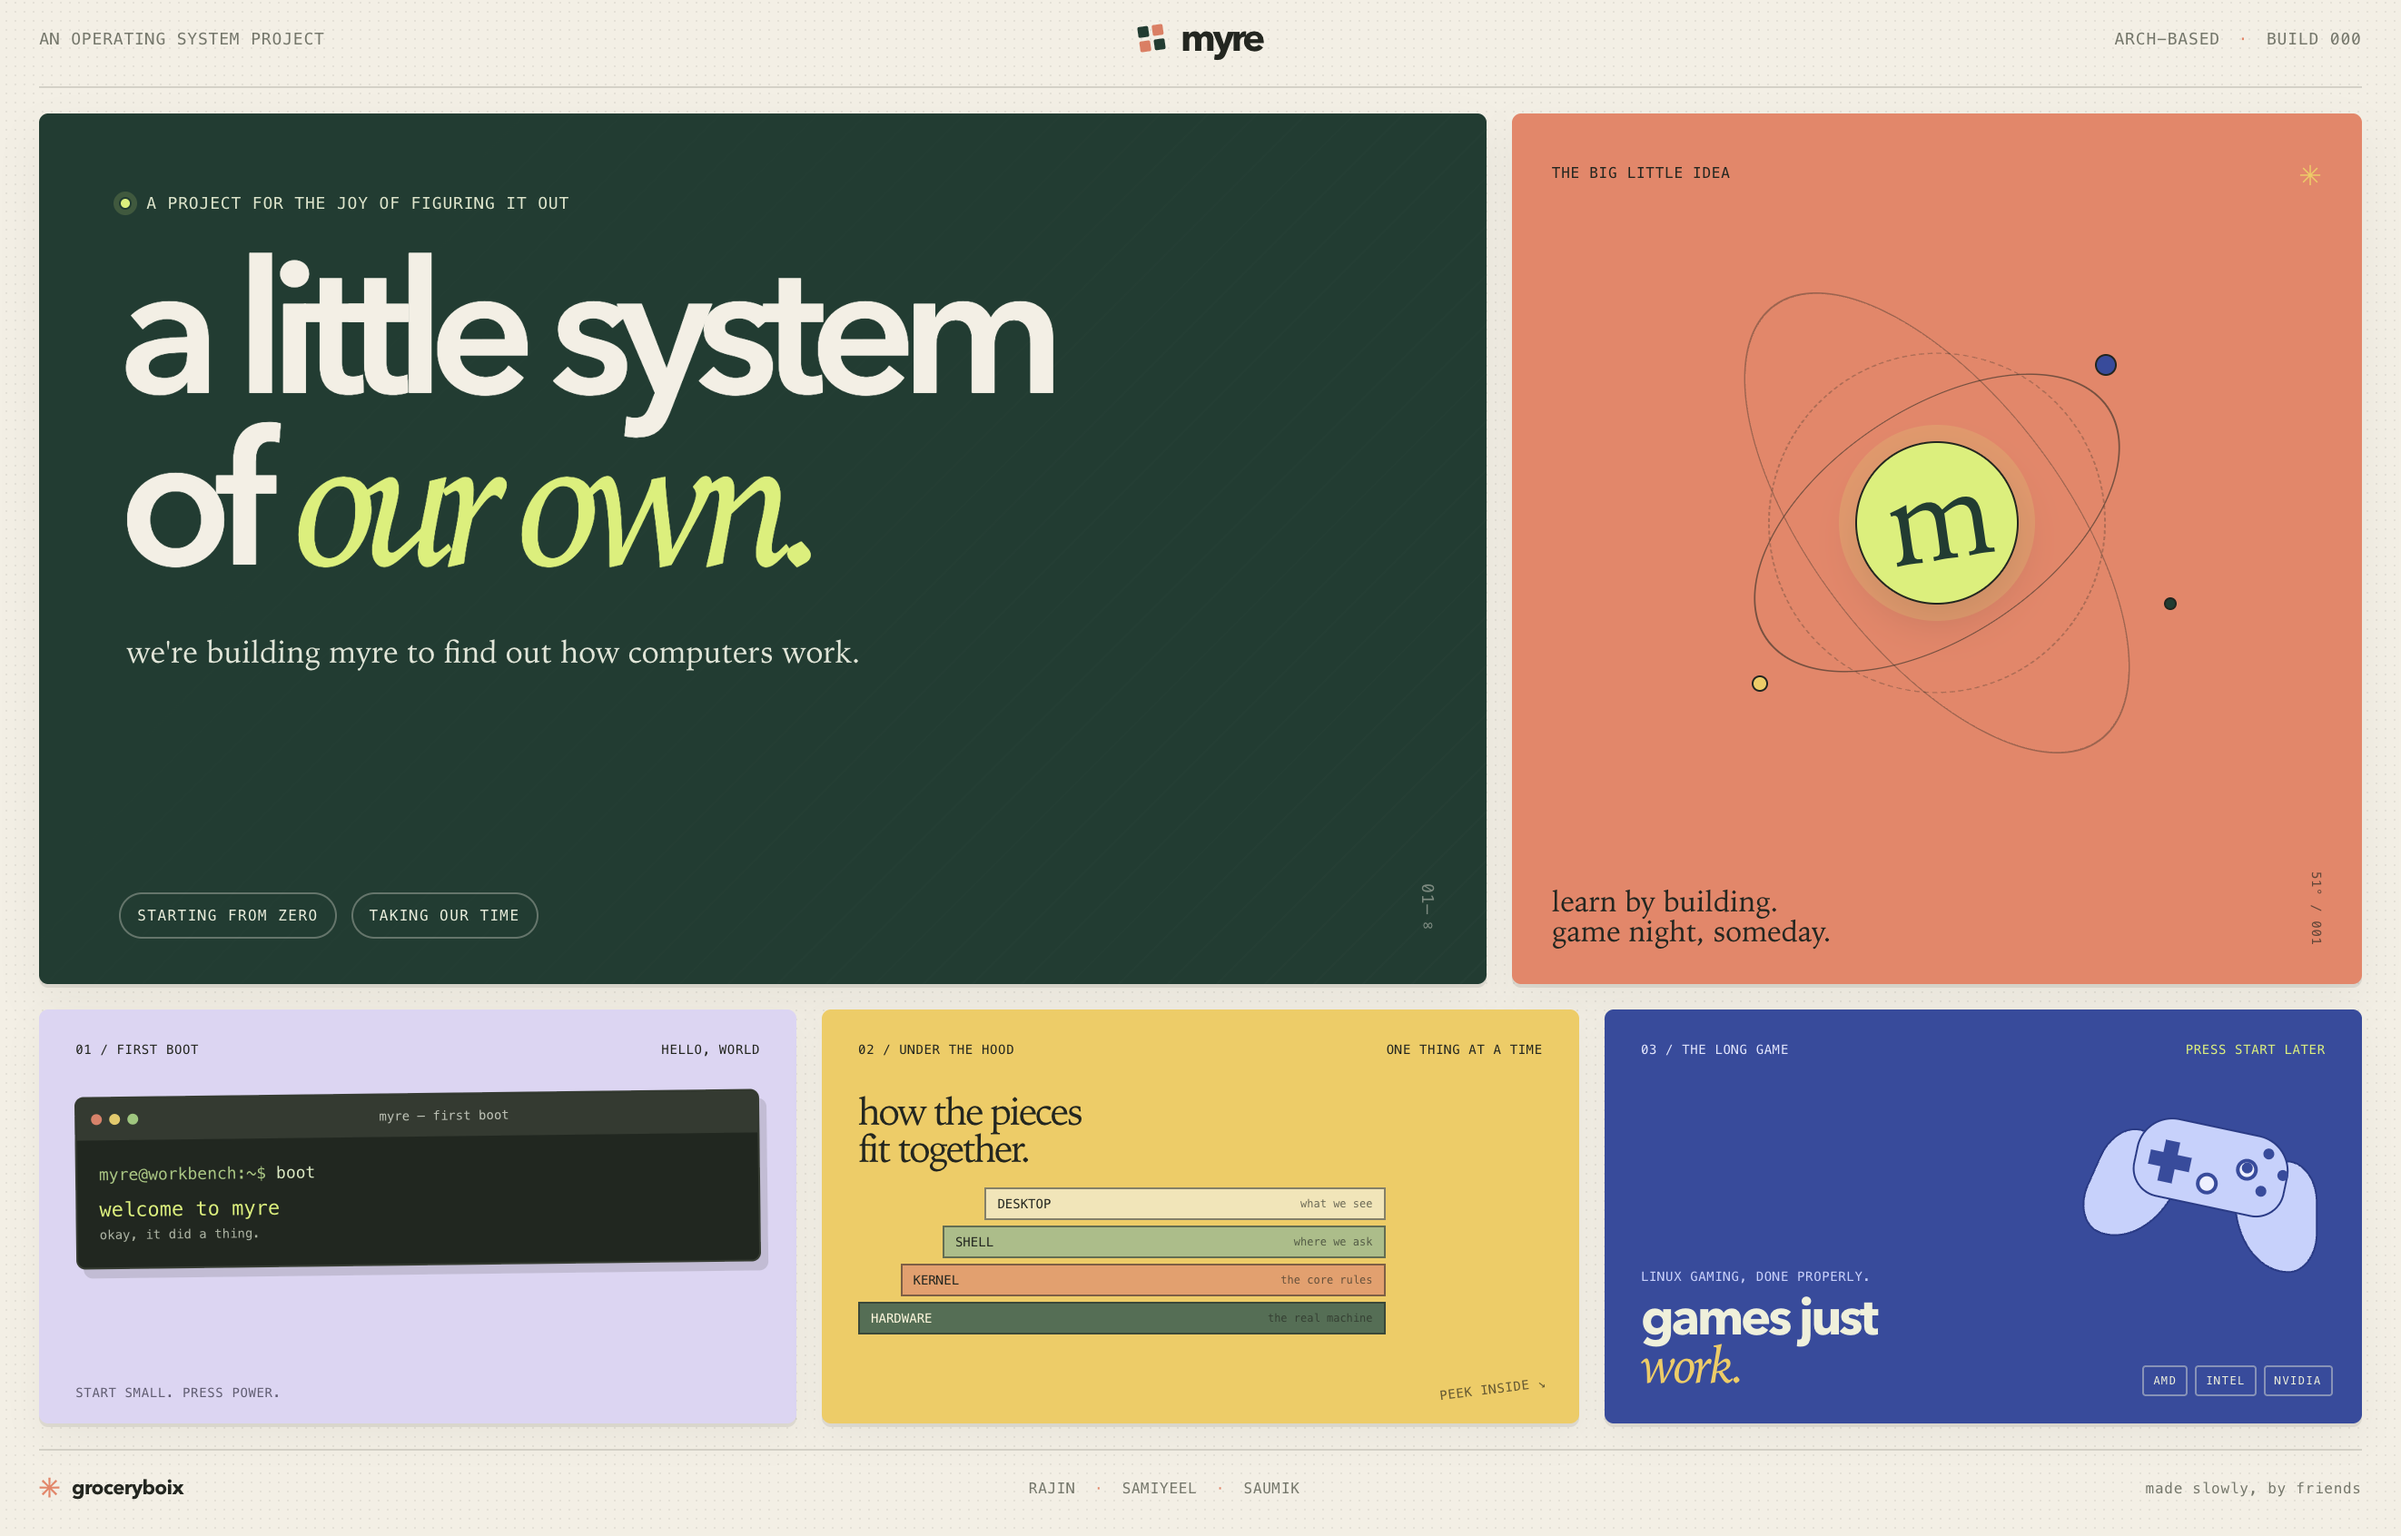
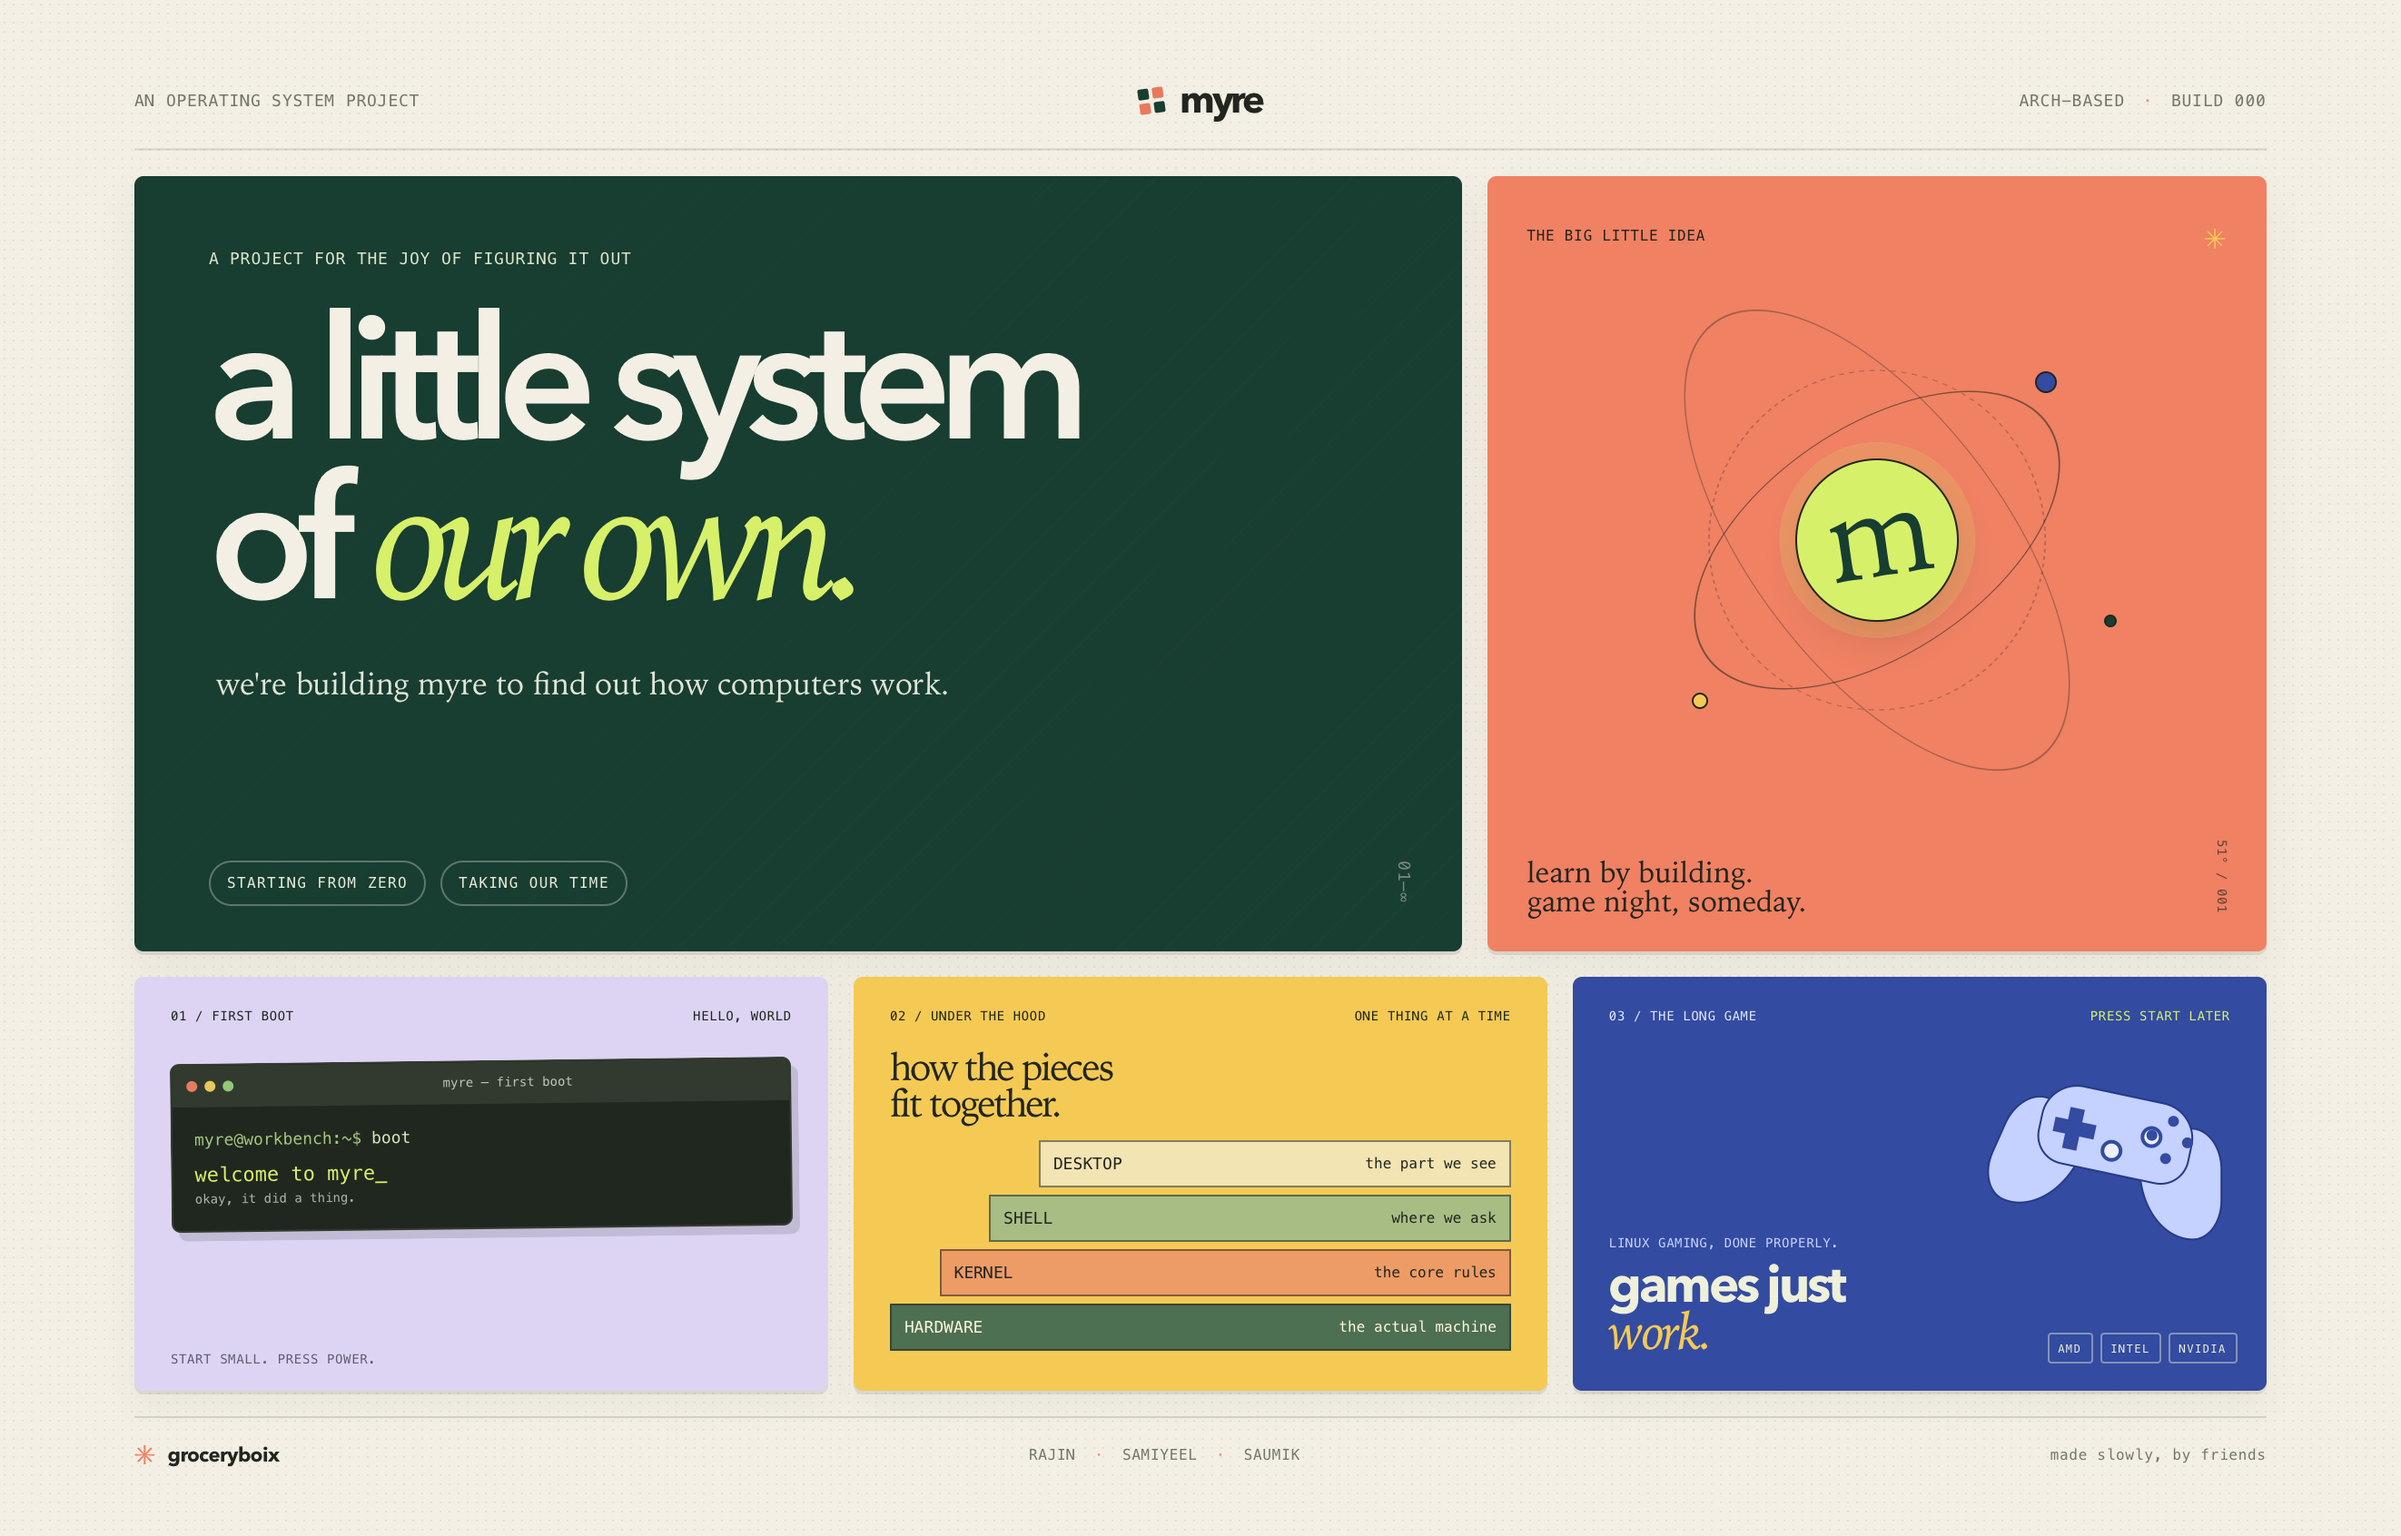
Refine learning layer cards and page titles

diff --git a/site/styles.css b/site/styles.css
@@ -128,15 +128,15 @@ h1, h2, p { margin-top: 0; }
 .card-caption { margin: 17px 0 0; color: #565268; font-size: 8px; }
 
 .layers { grid-column: span 4; min-height: 249px; background: var(--yellow); }
-.layers h2 { margin: 20px 0 12px; font: 500 26px/.98 var(--serif); letter-spacing: -.055em; }
+.layers h2 { margin: 12px 0; font: 500 26px/.98 var(--serif); letter-spacing: -.055em; }
 .layer-arrow { font: 20px var(--mono); transform: rotate(-35deg); }
-.layer-stack { display: grid; gap: 3px; width: 77%; }
-.layer { display: flex; align-items: center; justify-content: space-between; min-height: 21px; padding: 4px 7px; border: 1px solid rgb(34 38 31 / 55%); font: 8px var(--mono); text-transform: uppercase; }
-.layer i { color: rgb(34 38 31 / 62%); font-size: 7px; font-style: normal; text-transform: none; }
+.layer-stack { display: grid; gap: 4px; width: 100%; margin: 0; padding: 0; list-style: none; }
+.layer { display: flex; align-items: center; justify-content: space-between; gap: 8px; min-height: 26px; padding: 4px 9px; border: 1px solid rgb(34 38 31 / 55%); font: 10px/1.2 var(--mono); text-transform: uppercase; }
+.layer span { font-size: 9px; text-align: right; text-transform: none; }
 .layer-desktop { width: 76%; margin-left: 24%; background: #f3e4b3; }
 .layer-shell { width: 84%; margin-left: 16%; background: #a8bd84; }
 .layer-kernel { width: 92%; margin-left: 8%; background: #ed9c66; }
-.layer-hardware { background: #4d6f52; color: #fff7da; }
+.layer-hardware { color: #fff7da; background: #4d6f52; }
 .page-card-link { display: block; color: inherit; text-decoration: none; }
 .page-card-link:focus-visible { outline: 2px solid var(--green); outline-offset: 4px; }
 .roadmap-cue { display: inline-flex; align-items: center; gap: 10px; }
@@ -311,7 +311,6 @@ h1, h2, p { margin-top: 0; }
   .layers { min-height: 254px; }
   .learning-columns { grid-template-columns: 1fr; gap: 20px; }
   .video-fields { grid-template-columns: minmax(0, 1fr) minmax(0, .72fr); }
-  .layer-stack { width: 77%; }
   .game-night { min-height: 264px; }
   .controller-art { right: 8%; top: 72px; transform: rotate(11deg) scale(1.05); transform-origin: top right; }
   .game-night h2 { font-size: 35px; }

diff --git a/site/banner.css b/site/banner.css
@@ -47,7 +47,7 @@ body {
   border-bottom: 1px solid var(--line);
 }
 
-.mast-note, .eyebrow, .hero-tags, .hero-index, .card-meta, .tile-head, .tile-caption, .layer-scribble, .play-kicker, .gpu-tags, .credits, .orbit-coordinate {
+.mast-note, .eyebrow, .hero-tags, .hero-index, .card-meta, .tile-head, .tile-caption, .play-kicker, .gpu-tags, .credits, .orbit-coordinate {
   font-family: var(--mono);
   text-transform: uppercase;
   letter-spacing: .045em;
@@ -110,15 +110,14 @@ h1 em { color: var(--lime); font-family: var(--serif); font-weight: 500; }
 .tile-caption { position: absolute; left: 20px; bottom: 13px; margin: 0; color: #615d73; font-size: 7px; }
 
 .layers-tile { background: var(--yellow); }
-.layers-tile h2 { margin: 20px 0 11px; font: 500 21px/.98 var(--serif); letter-spacing: -.055em; }
-.layers { display: grid; gap: 3px; width: 77%; }
-.layer { min-height: 18px; display: flex; align-items: center; justify-content: space-between; padding: 3px 6px; border: 1px solid rgb(34 38 31 / 53%); font: 7px var(--mono); text-transform: uppercase; }
-.layer i { color: rgb(34 38 31 / 64%); font-size: 6px; font-style: normal; text-transform: none; }
+.layers-tile h2 { margin: 14px 0 10px; font: 500 21px/.98 var(--serif); letter-spacing: -.055em; }
+.layer-stack { display: grid; gap: 4px; width: 100%; margin: 0; padding: 0; list-style: none; }
+.layer { display: flex; align-items: center; justify-content: space-between; gap: 7px; min-height: 26px; padding: 4px 7px; border: 1px solid rgb(34 38 31 / 55%); font: 9px/1.2 var(--mono); text-transform: uppercase; }
+.layer span { font-size: 8px; text-align: right; text-transform: none; }
 .layer-desktop { width: 76%; margin-left: 24%; background: #f3e4b3; }
 .layer-shell { width: 84%; margin-left: 16%; background: #a8bd84; }
 .layer-kernel { width: 92%; margin-left: 8%; background: #ed9c66; }
-.layer-hardware { background: #4d6f52; color: #fff7da; }
-.layer-scribble { position: absolute; right: 18px; bottom: 15px; color: #66572c; font-size: 7px; transform: rotate(-7deg); }
+.layer-hardware { color: #fff7da; background: #4d6f52; }
 
 .play-tile { color: #eef0d9; background: var(--blue); }
 .play-tile .tile-head { color: #e2e6ff; }

diff --git a/site/banner.html b/site/banner.html
@@ -5,7 +5,7 @@
     <meta name="viewport" content="width=device-width, initial-scale=1">
     <meta name="theme-color" content="#f3efe4">
     <meta name="description" content="myre, a little computer project by groceryboix.">
-    <title>myre — groceryboix</title>
+    <title>myre</title>
     <link rel="icon" type="image/svg+xml" href="favicon.svg">
     <link rel="stylesheet" href="banner.css">
   </head>
@@ -61,13 +61,12 @@
         <article class="tile layers-tile">
           <div class="tile-head"><span>02 / UNDER THE HOOD</span><span>ONE THING AT A TIME</span></div>
           <h2>how the pieces<br>fit together.</h2>
-          <div class="layers" aria-label="Hardware, kernel, shell, and desktop layers">
-            <span class="layer layer-desktop">desktop <i>what we see</i></span>
-            <span class="layer layer-shell">shell <i>where we ask</i></span>
-            <span class="layer layer-kernel">kernel <i>the core rules</i></span>
-            <span class="layer layer-hardware">hardware <i>the real machine</i></span>
-          </div>
-          <span class="layer-scribble" aria-hidden="true">peek inside ↘</span>
+          <ol class="layer-stack" aria-label="Learning path from desktop to hardware">
+            <li class="layer layer-desktop">desktop <span>the part we see</span></li>
+            <li class="layer layer-shell">shell <span>where we ask</span></li>
+            <li class="layer layer-kernel">kernel <span>the core rules</span></li>
+            <li class="layer layer-hardware">hardware <span>the actual machine</span></li>
+          </ol>
         </article>
 
         <article class="tile play-tile">

diff --git a/site/index.html b/site/index.html
@@ -5,7 +5,7 @@
     <meta name="viewport" content="width=device-width, initial-scale=1">
     <meta name="theme-color" content="#f3efe4">
     <meta name="description" content="A playful vision board for myre, a computer project by groceryboix.">
-    <title>myre by groceryboix</title>
+    <title>myre</title>
     <link rel="icon" type="image/svg+xml" href="favicon.svg">
     <link rel="stylesheet" href="styles.css">
   </head>
@@ -70,12 +70,12 @@
         <article class="card layers">
           <div class="card-topline"><span class="card-index">04 / WHAT WE'LL LEARN</span><span class="layer-arrow" aria-hidden="true">↓</span></div>
           <h2>one layer<br>at a time.</h2>
-          <div class="layer-stack" aria-label="Learning path from hardware to desktop">
-            <span class="layer layer-desktop">desktop <i>the part we see</i></span>
-            <span class="layer layer-shell">shell <i>where we ask</i></span>
-            <span class="layer layer-kernel">kernel <i>the core rules</i></span>
-            <span class="layer layer-hardware">hardware <i>the actual machine</i></span>
-          </div>
+          <ol class="layer-stack" aria-label="Learning path from desktop to hardware">
+            <li class="layer layer-desktop">desktop <span>the part we see</span></li>
+            <li class="layer layer-shell">shell <span>where we ask</span></li>
+            <li class="layer layer-kernel">kernel <span>the core rules</span></li>
+            <li class="layer layer-hardware">hardware <span>the actual machine</span></li>
+          </ol>
         </article>
 
         <article class="card game-night">

diff --git a/site/learning.html b/site/learning.html
@@ -5,7 +5,7 @@
     <meta name="viewport" content="width=device-width, initial-scale=1">
     <meta name="theme-color" content="#f3efe4">
     <meta name="description" content="The myre crew's shared place for learning, experiments, notes, and small tasks.">
-    <title>learn together · myre</title>
+    <title>myre</title>
     <link rel="icon" type="image/svg+xml" href="favicon.svg">
     <link rel="stylesheet" href="styles.css">
   </head>

diff --git a/README.md b/README.md
@@ -13,7 +13,7 @@ The long-term idea is an Arch-based Linux system with strong gaming support. We'
 - `site/app.js` powers the learning page. Pinned videos, checklists, and tasks are saved in the current browser only; they don't sync between people or devices.
 - `site/learning/` contains the Markdown notes shown in the hub, grouped by what we're learning, testing, and making.
 - `site/banner.html` and `site/banner.css` make the screenshot-ready banner.
-- `site/banner.png` is the supplied banner artwork.
+- `site/banner.png` is the screenshot of the HTML banner.
 - `site/favicon.svg` is the four-square icon used by the site pages.
 - `site/styles.css` styles the vision board and the responsive learning page.
 
